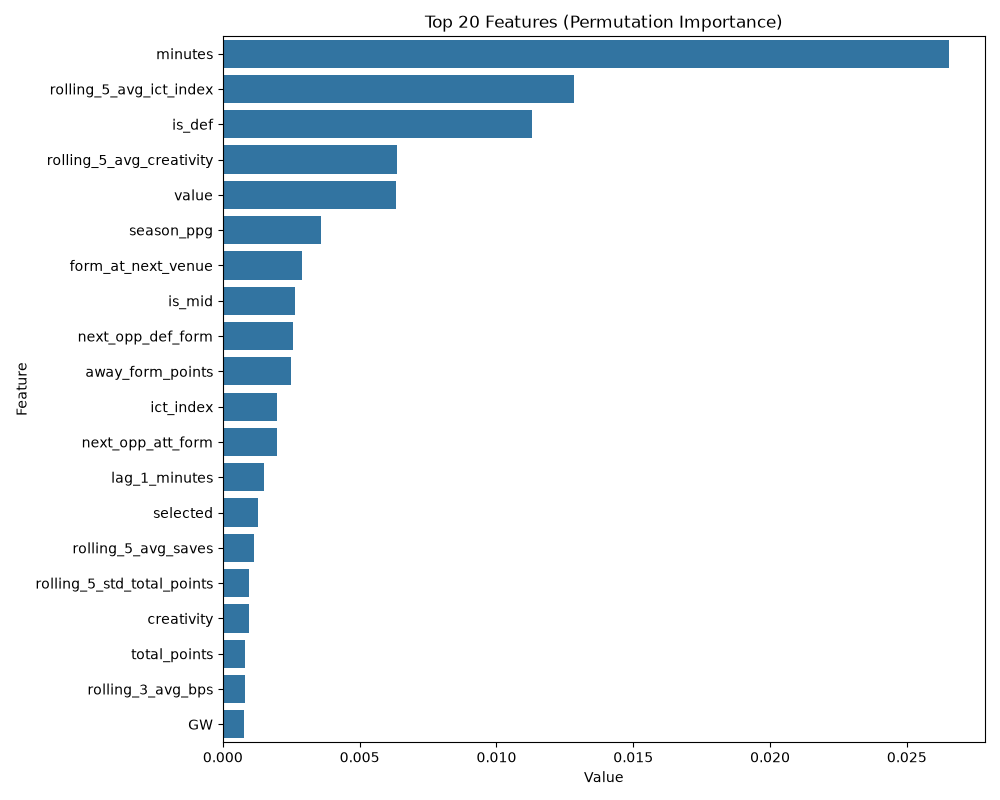
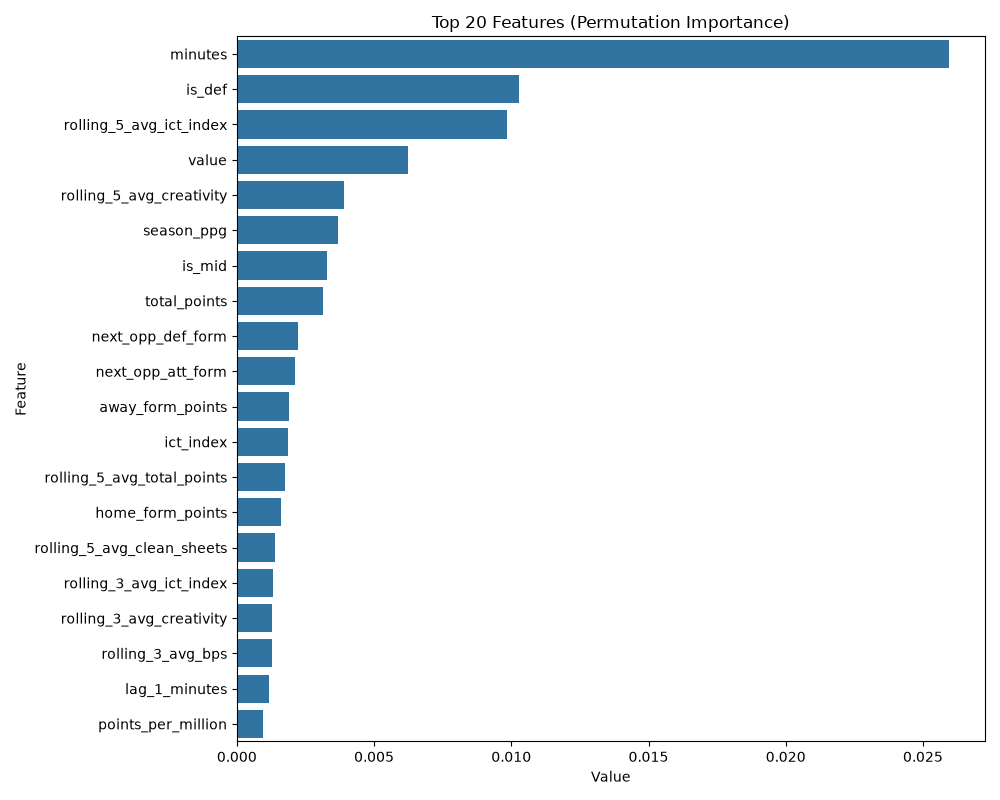
Added transfer comparison feature with LLM explanation

diff --git a/app/main.py b/app/main.py
@@ -348,6 +348,47 @@ else:
 
 
 # ----------------------------------------------------------------------------
+# Transfer Comparison
+# ----------------------------------------------------------------------------
+st.markdown("---")
+st.markdown("<div class='ai-header'><span class='ai-header-icon'>🔄</span> Transfer Comparison</div>", unsafe_allow_html=True)
+st.markdown("<p style='color:#b9a9c9; font-size:0.95rem;'>Compare two players and ask the AI whether you should make the transfer.</p>", unsafe_allow_html=True)
+
+t_col1, t_col2 = st.columns(2)
+
+with t_col1:
+    p1_name = st.selectbox("Player 1 (Transfer Out)", players, index=players.index("Mohamed Salah") if "Mohamed Salah" in players else 0, key="transfer_p1")
+with t_col2:
+    p2_name = st.selectbox("Player 2 (Transfer In)", players, index=players.index("Bukayo Saka") if "Bukayo Saka" in players else 1, key="transfer_p2")
+
+transfer_gw = st.selectbox("Gameweek for Comparison", sorted(df['GW'].unique()), key="transfer_gw")
+
+if st.button("🔄 Compare Players"):
+    from src.features.player_lookup import get_player_stats
+    
+    p1_stats = get_player_stats(df, p1_name, transfer_gw)
+    p2_stats = get_player_stats(df, p2_name, transfer_gw)
+    
+    if not p1_stats or not p2_stats:
+        st.error("Could not find data for one or both players in the selected Gameweek.")
+    else:
+        s_col1, s_col2 = st.columns(2)
+        with s_col1:
+            st.markdown(f"**{p1_stats['name']}** ({p1_stats['team']} - {p1_stats['position']})")
+            st.metric("Price", f"£{p1_stats['price']:.1f}m")
+            st.metric("Predicted Points", f"{p1_stats['predicted_points']:.2f}")
+            st.metric("Form (Avg L3)", f"{p1_stats['form']:.2f}")
+        with s_col2:
+            st.markdown(f"**{p2_stats['name']}** ({p2_stats['team']} - {p2_stats['position']})")
+            st.metric("Price", f"£{p2_stats['price']:.1f}m")
+            st.metric("Predicted Points", f"{p2_stats['predicted_points']:.2f}")
+            st.metric("Form (Avg L3)", f"{p2_stats['form']:.2f}")
+            
+        with st.spinner("Asking the Gaffer..."):
+            verdict = assistant.compare_players(p1_stats, p2_stats)
+            st.info(verdict)
+
+# ----------------------------------------------------------------------------
 # Dream Team — budget-constrained optimal squad for a gameweek
 # ----------------------------------------------------------------------------
 st.markdown("---")

diff --git a/src/features/player_lookup.py b/src/features/player_lookup.py
@@ -1,0 +1,41 @@
+import pandas as pd
+
+def get_player_stats(df, player_name, gameweek):
+    """Filter the DataFrame by player name and GW and return a stats dict."""
+    player_data = df[(df['name'] == player_name) & (df['GW'] == gameweek)]
+    if player_data.empty:
+        return None
+        
+    row = player_data.iloc[0]
+    
+    # Safely get values with fallbacks
+    predicted_points = row.get('predicted_points', 0)
+    if pd.isna(predicted_points): predicted_points = 0.0
+    
+    form = row.get('rolling_3_avg_total_points', 0)
+    if pd.isna(form): form = 0.0
+    
+    xg = row.get('expected_goals', 0)
+    if pd.isna(xg): xg = 0.0
+    
+    xa = row.get('expected_assists', 0)
+    if pd.isna(xa): xa = 0.0
+    
+    price = row.get('value', 0)
+    if pd.notna(price): price = price / 10.0
+    else: price = 0.0
+    
+    selected_by = row.get('selected_by_percent', 0)
+    if pd.isna(selected_by): selected_by = 0.0
+    
+    return {
+        'name': str(row.get('name', player_name)),
+        'team': str(row.get('team_x', 'UNK')),
+        'position': str(row.get('position', 'UNK')),
+        'predicted_points': float(predicted_points),
+        'form': float(form),
+        'xg': float(xg),
+        'xa': float(xa),
+        'price': float(price),
+        'selected_by': float(selected_by)
+    }

diff --git a/src/llm/prompts.py b/src/llm/prompts.py
@@ -62,3 +62,29 @@ def generate_player_prompt(player_name, gw, predicted_points, profile, recent_st
 
     prompt += "\nGive your verdict (BUY/SELL/HOLD) with confidence and reasoning."
     return prompt
+
+
+TRANSFER_SYSTEM_PROMPT = """
+You are an elite Fantasy Premier League (FPL) analyst. You will be given stats 
+for two players. Based on their recent form, upcoming projected points, and price, 
+tell the user whether they should transfer Player 1 OUT to bring Player 2 IN.
+
+Respond with a VERDICT: <TRANSFER / KEEP> (Confidence: <Low / Medium / High>)
+Followed by 2-3 sentences of sharp, data-driven reasoning comparing both players.
+"""
+
+def transfer_user_prompt(p1, p2):
+    """Build the user prompt for comparing two players."""
+    def format_player(p):
+        return (f"{p['name']} ({p['team']} - {p['position']})\n"
+                f"Price: £{p['price']:.1f}m | Selected By: {p['selected_by']}%\n"
+                f"Proj Points: {p['predicted_points']:.2f}\n"
+                f"Form (L3): {p['form']:.2f}\n"
+                f"xG: {p['xg']:.2f} | xA: {p['xa']:.2f}")
+
+    prompt = "--- Player 1 (Current) ---\n"
+    prompt += format_player(p1) + "\n\n"
+    prompt += "--- Player 2 (Target) ---\n"
+    prompt += format_player(p2) + "\n\n"
+    prompt += "Give your verdict (TRANSFER/KEEP) and reasoning."
+    return prompt

diff --git a/src/llm/agent.py b/src/llm/agent.py
@@ -92,6 +92,30 @@ class FPLAssistant:
         except Exception as e:
             return f"LLM API Error: {str(e)}"
 
+    def compare_players(self, player1: dict, player2: dict) -> str:
+        """Query the LLM for a transfer comparison between two players."""
+        try:
+            from .prompts import TRANSFER_SYSTEM_PROMPT, transfer_user_prompt
+        except ImportError:
+            from prompts import TRANSFER_SYSTEM_PROMPT, transfer_user_prompt
+
+        user_prompt = transfer_user_prompt(player1, player2)
+
+        print(f"Querying {self.model_name} for transfer comparison...")
+        try:
+            response = self.client.chat.completions.create(
+                model=self.model_name,
+                messages=[
+                    {"role": "system", "content": TRANSFER_SYSTEM_PROMPT},
+                    {"role": "user", "content": user_prompt},
+                ],
+                temperature=0.6,
+                max_tokens=260,
+            )
+            return response.choices[0].message.content
+        except Exception as e:
+            return f"LLM API Error: {str(e)}"
+
 
 if __name__ == "__main__":
     assistant = FPLAssistant()